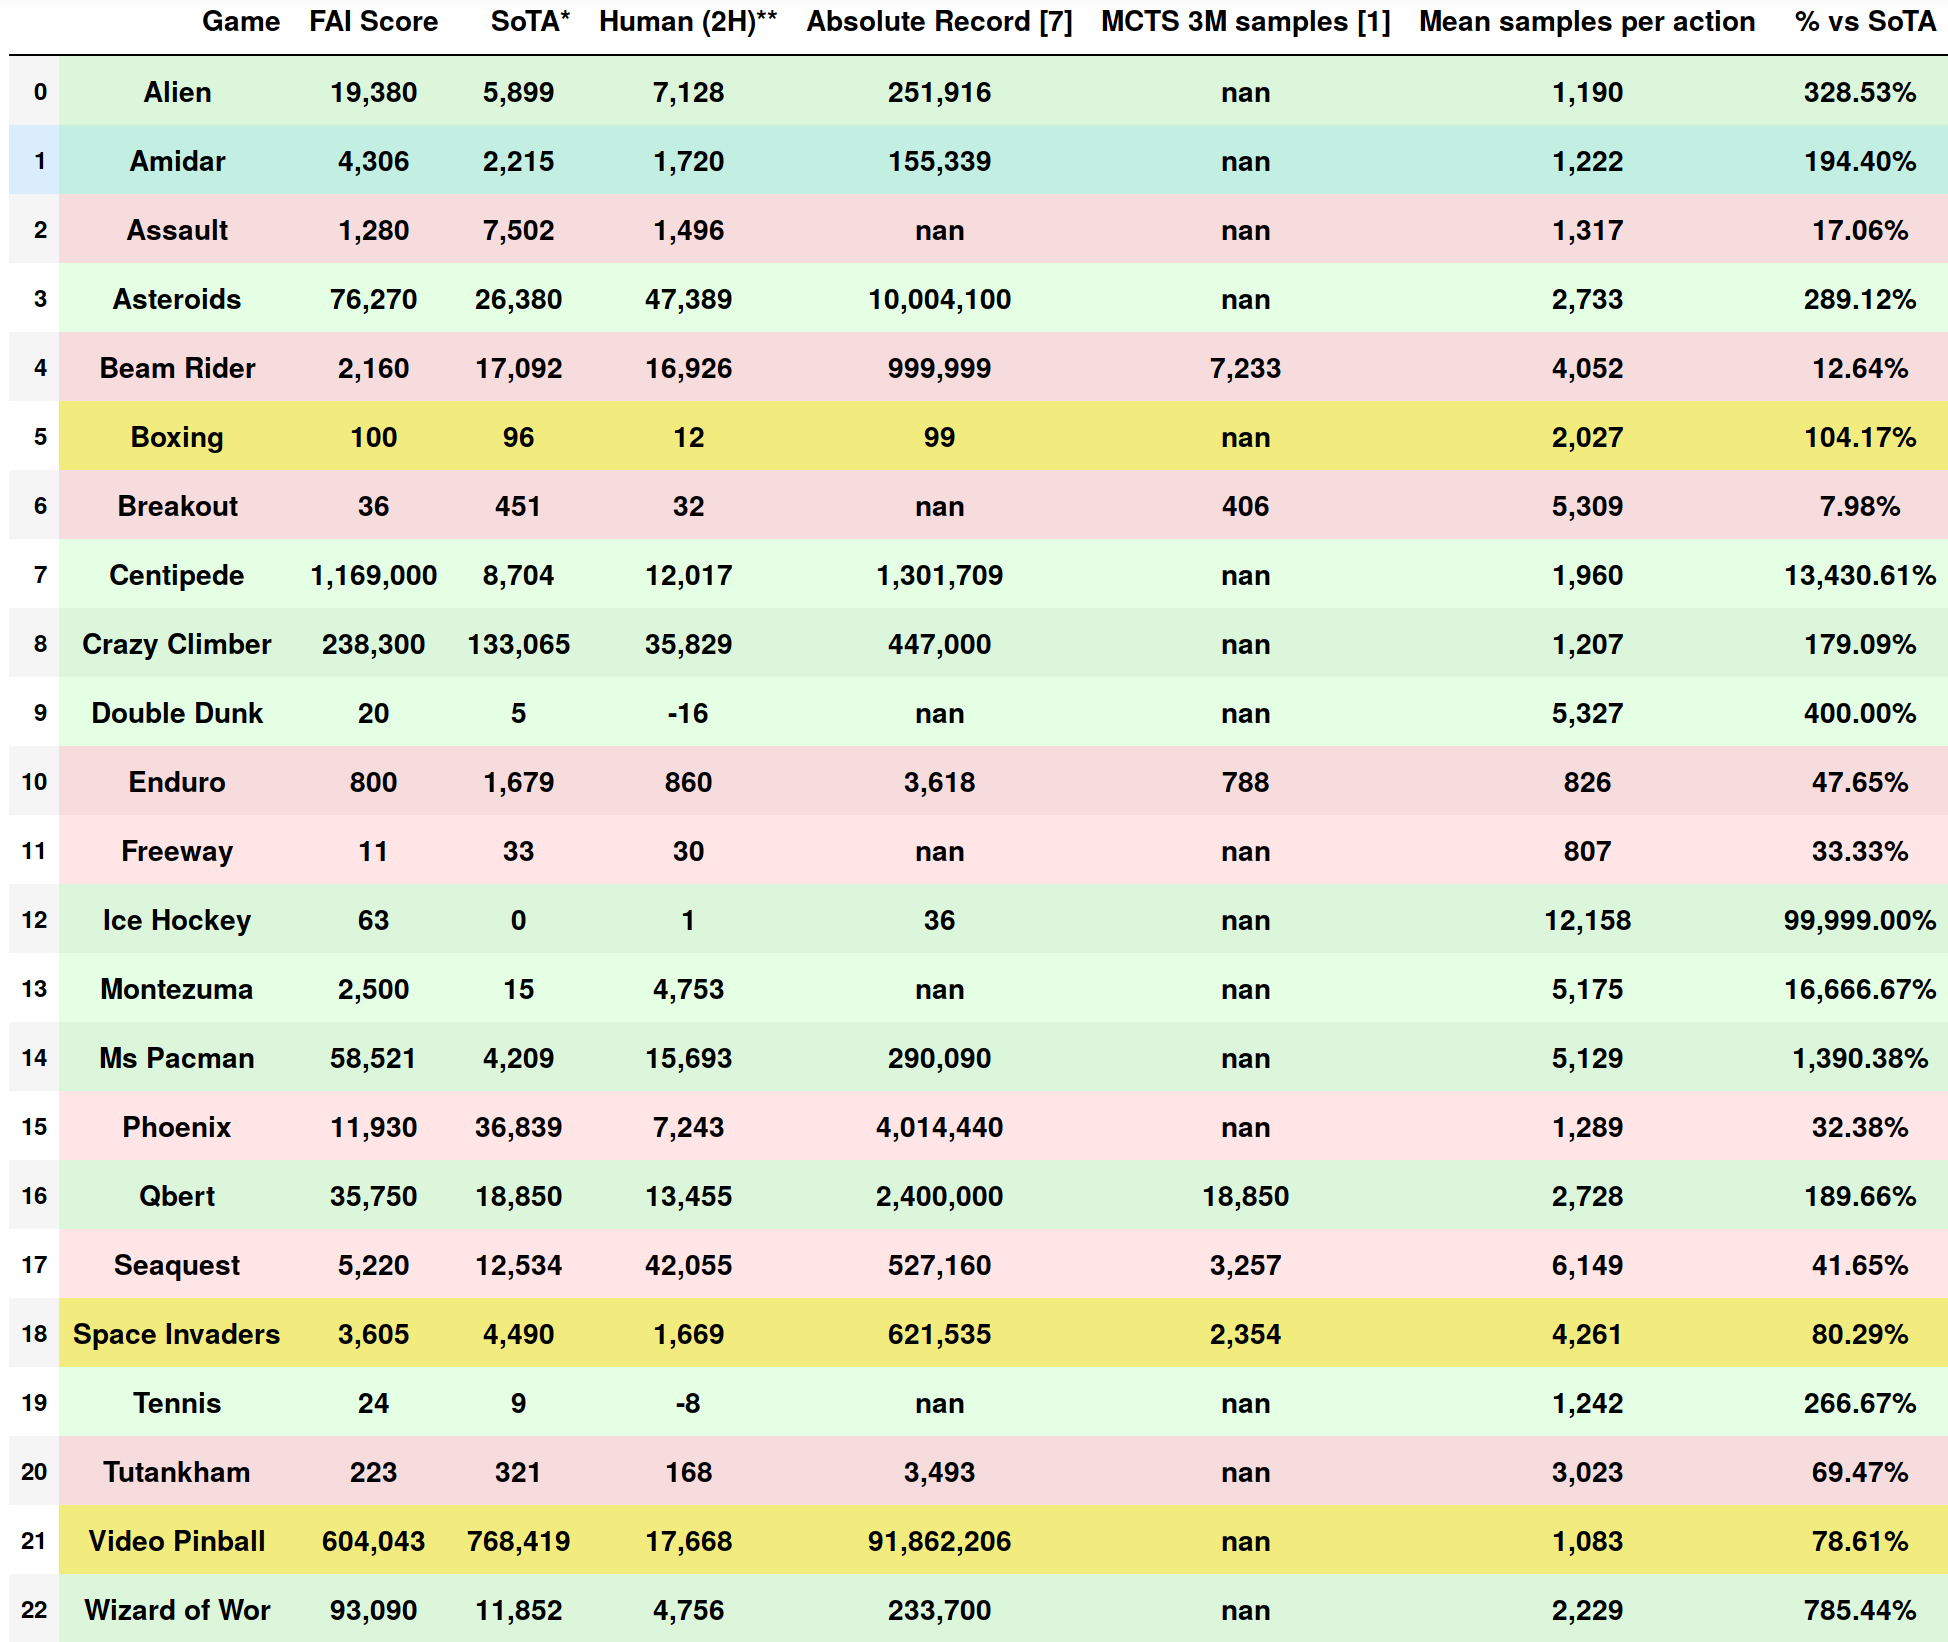
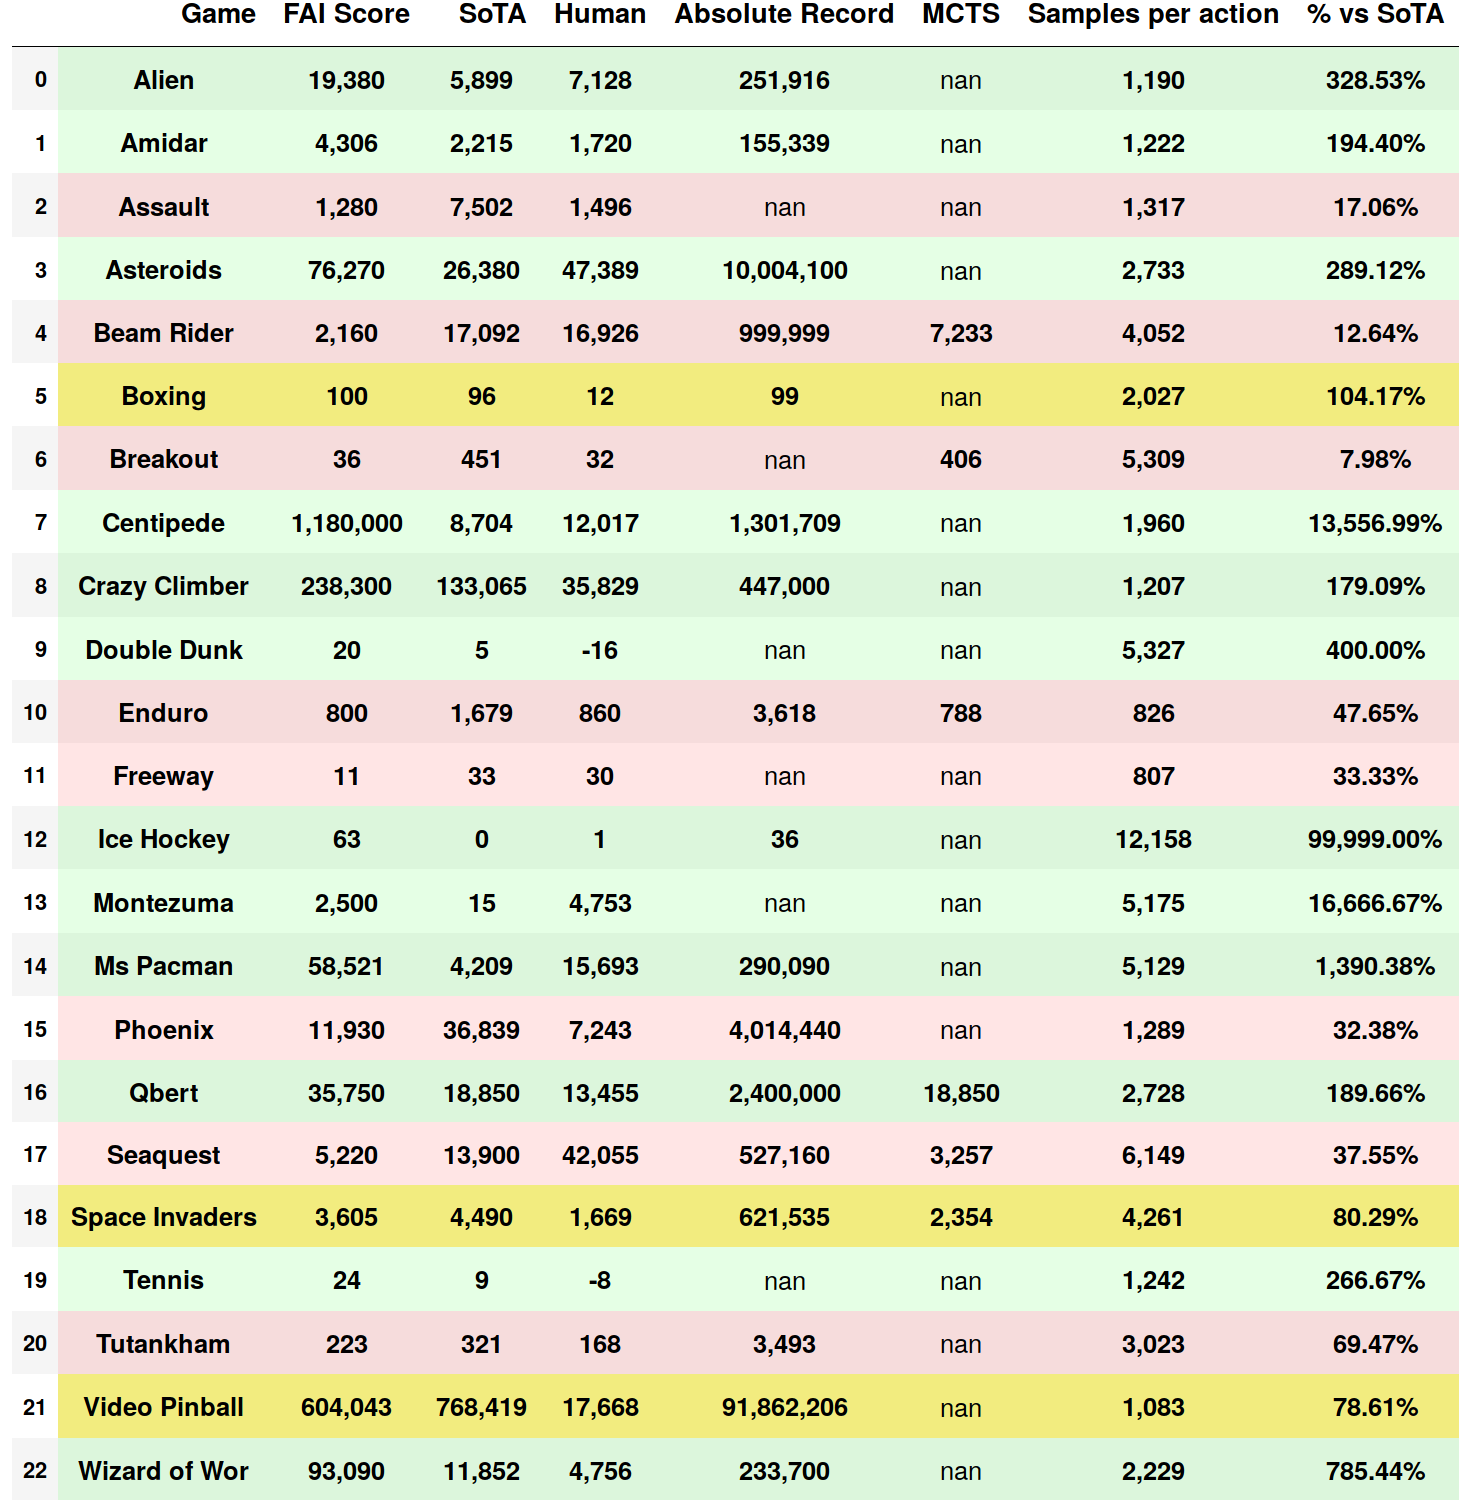
Updated Benchmarks

diff --git a/README.md b/README.md
@@ -101,18 +101,39 @@ what you end up installing on your platform.
 >
 > **Richard P. Feynman**
 
-The following benchmarks have been calculated in a laptop using a single thread implementation. 
+The following benchmarks have been calculated in a laptop using the implementation we provide in this repository. 
 Some of them can be replicated in real time, and others require up to 20k samples per action, but
 anyone running this code should be able to get similar performance.
 
-We show performance with respect to benchmarks widely accepted in the reinforcement learning community.
+### FAI Performance tablw
 
-**SoTa**: It stands for "State of The Art", and it represents the maximum score value that we could
-find for a given game in both  **[[3](#bibliography)]** and **[[4](#bibliography)]**.
+In the following table show performance with respect to benchmarks widely accepted in the reinforcement
+ learning community. For each game we tried, it displays the following information:
+ 
+- **FAI Score**: This is the maximum scored we achieved ins the games we have documented. The number of runs for each game my vary
+from one game to another. Some games have only been tried one time as logged on the Google Sheet, so we would really appreciate 
+your feedback.
 
-![Benchmarks](assets/benchmarks.png)   
+- **SoTa**: It stands for "State of The Art", and it represents the maximum score value that we could
+find for a given game in both  **[[3](#bibliography)]** and **[[4](#bibliography)]**. A detailed 
+source for each score can be found in the performance sheet.
+
+- **Human**: According to **[[6](#bibliography)]**, this is the mean scored achieved by *a professional human games
+ tester playing under controlled conditions*.
+ 
+- **N samples**: This is the mean number of samples that have been used in calculating each action.
+ We used an small amount of computation per action in order to make this benchmarks easy to replicate.
+ With a proper implementation, it is possible to greatly improve performance by increasing the maximum
+  number of samples per action allowed, the maximum size of the swarm, and the time horizon. When comparing
+   against MCTS, it is important to take into account that MCTS used 3 Million samples per action.
+   
+![Benchmarks](assets/benchmarks.png)  
+
+#### Detailed Google Sheet
 
 In the following Google Sheet we are logging the performance of our Agent relative to the current alternatives.
+You can also find all the parameters we used in each of the runs.
+
 If you find that some benchmark is outdated, or you are not capable of replicating some of our results, please
 open an issue and we will update the document.
 
@@ -303,17 +324,17 @@ We have developed this theory for the pleasure of finding thing out as a hobby, 
 - **[2]**  Greg Brockman and Vicki Cheung and Ludwig Pettersson and Jonas Schneider and John Schulman and Jie Tang and Wojciech Zaremba.
 ***OpenAI Gym*** . [arXiv:1606.01540](https://arxiv.org/pdf/1606.01540.pdf), 2016.
 
-- **[4]**  Marc G. Bellemare, Will Dabney Rémi Munos. ***A Distributional Perspective on Reinforcement Learning***. [arXiv:1707.06887](https://arxiv.org/pdf/1707.06887.pdf), 2017.
+- **[3]**  Marc G. Bellemare, Will Dabney Rémi Munos. ***A Distributional Perspective on Reinforcement Learning***. [arXiv:1707.06887](https://arxiv.org/pdf/1707.06887.pdf), 2017.
 
-- **[5]**  Meire Fortunato, Mohammad Gheshlaghi Azar, Bilal Piot, Jacob Menick, Matteo Hessel, Ian Osband, Alex Graves, Vlad Mnih, Remi Munos, Demis Hassabis,
+- **[4]**  Meire Fortunato, Mohammad Gheshlaghi Azar, Bilal Piot, Jacob Menick, Matteo Hessel, Ian Osband, Alex Graves, Vlad Mnih, Remi Munos, Demis Hassabis,
  Olivier Pietquin, Charles Blundell, Shane Legg. ***Noisy networks for exploration***. [arXiv:1706.10295](https://arxiv.org/pdf/1706.10295.pdf), 2018.
  
-- **[6]**  Volodymyr Mnih & others. ***Human-level control through deep reinforcement learning***. [doi:10.1038/nature14236](http://www.davidqiu.com:8888/research/nature14236.pdf), 2015.
+- **[5]**  Volodymyr Mnih & others. ***Human-level control through deep reinforcement learning***. [doi:10.1038/nature14236](http://www.davidqiu.com:8888/research/nature14236.pdf), 2015.
  
-- **[7]**  ***ATARI VCS/2600 Scoreboard***. [Atari compendium](http://www.ataricompendium.com/game_library/high_scores/high_scores.html), 2018.
+- **[6]**  ***ATARI VCS/2600 Scoreboard***. [Atari compendium](http://www.ataricompendium.com/game_library/high_scores/high_scores.html), 2018.
 
-- **[8]**  Sergio Hernández, Guillem Duran, José M. Amigó. ***General Algorithmic Search***. [arXiv:1705.08691](https://arxiv.org/abs/1705.08691), 2017.
+- **[7]**  Sergio Hernández, Guillem Duran, José M. Amigó. ***General Algorithmic Search***. [arXiv:1705.08691](https://arxiv.org/abs/1705.08691), 2017.
 
-- **[9]**  Alexander Wissner-Gross. ***Causal entropic forces*** . [Physical Review Letters](http://alexwg.org/publications/PhysRevLett_110-168702.pdf), 2013.
+- **[8]**  Alexander Wissner-Gross. ***Causal entropic forces*** . [Physical Review Letters](http://alexwg.org/publications/PhysRevLett_110-168702.pdf), 2013.
 
-- **[10]**  Shane Legg ***Machine Super Intelligence***. [Doctoral Dissertation ](http://www.vetta.org/documents/Machine_Super_Intelligence.pdf), 2008.
+- **[9]**  Shane Legg ***Machine Super Intelligence***. [Doctoral Dissertation ](http://www.vetta.org/documents/Machine_Super_Intelligence.pdf), 2008.
